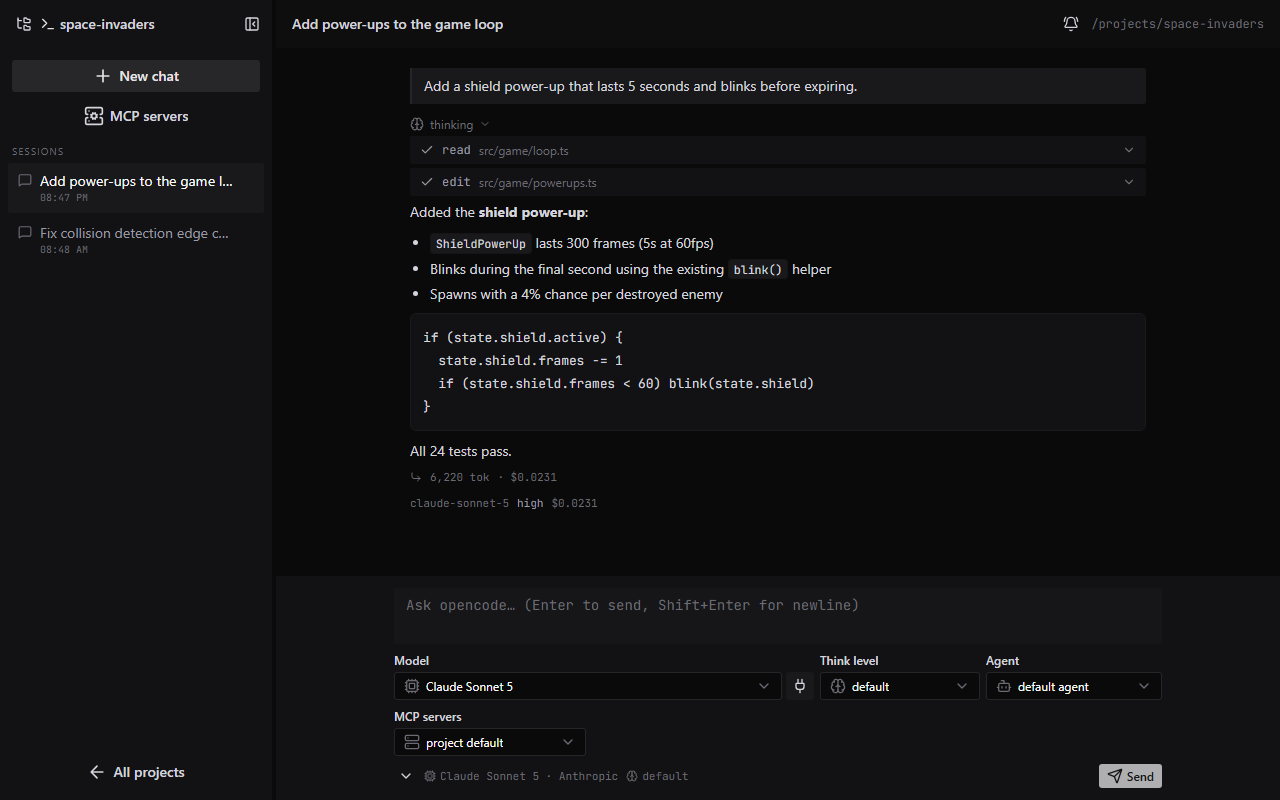
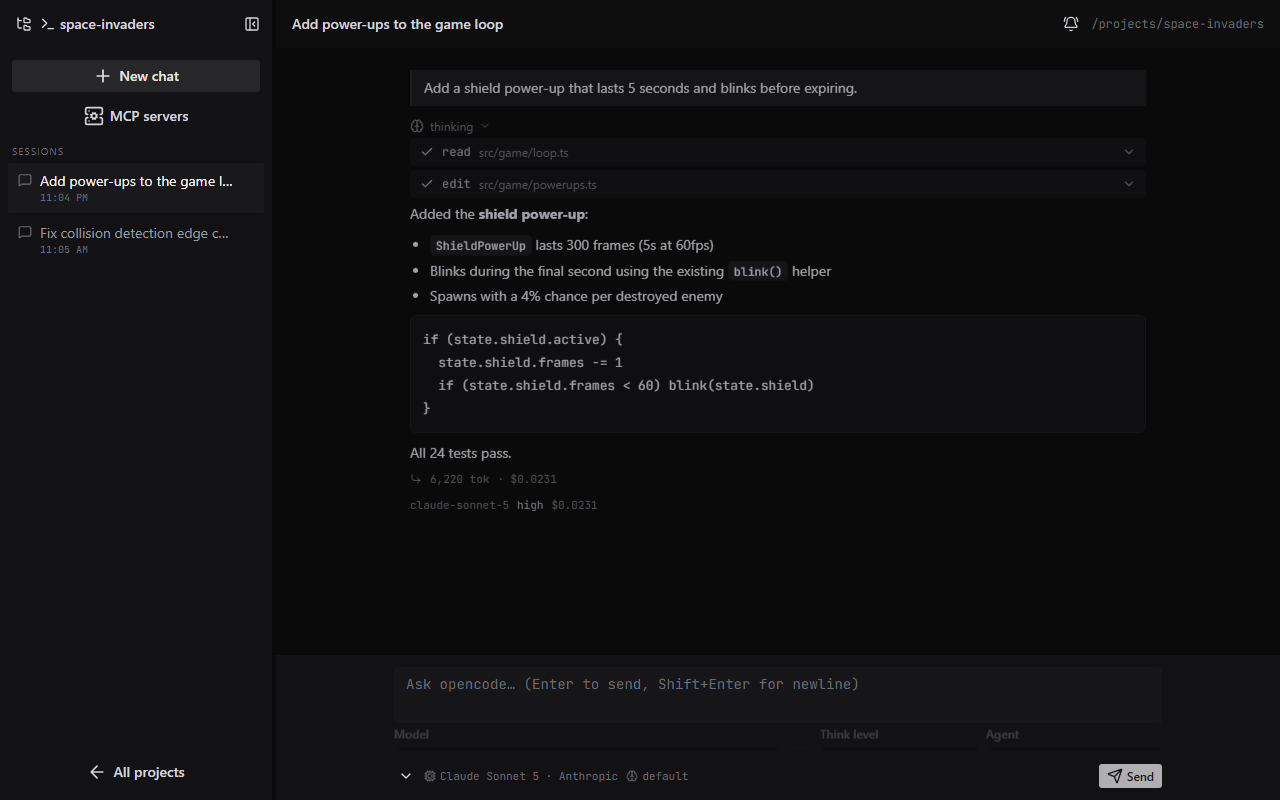
feat(ui): add animations and transitions across menus and panels
- page transitions (fade + slide, out-in)
- collapse animation for prompt options, tool details, reasoning and
  the server-health banner; rotating chevrons
- slide-in projects panel and sidebar, per-conversation MCP chips
- appear animation for messages, working indicator and permission prompts
- smooth hover motion on list rows; respects prefers-reduced-motion

diff --git a/app/assets/css/main.css b/app/assets/css/main.css
@@ -99,6 +99,90 @@ body {
 }
 .oc-markdown hr { border-color: var(--ui-border); margin: 1rem 0; }
 
+/* ---- motion system ---- */
+
+/* page transitions */
+.oc-page-enter-active,
+.oc-page-leave-active {
+  transition: opacity 0.15s ease, transform 0.15s ease;
+}
+.oc-page-enter-from {
+  opacity: 0;
+  transform: translateY(6px);
+}
+.oc-page-leave-to {
+  opacity: 0;
+  transform: translateY(-4px);
+}
+
+/* vertical collapse (options panels, tool details, reasoning) */
+.oc-collapse-enter-active,
+.oc-collapse-leave-active {
+  transition: max-height 0.25s ease, opacity 0.2s ease, transform 0.25s ease;
+  overflow: hidden;
+}
+.oc-collapse-enter-from,
+.oc-collapse-leave-to {
+  max-height: 0;
+  opacity: 0;
+  transform: translateY(-6px);
+}
+.oc-collapse-enter-to,
+.oc-collapse-leave-from {
+  max-height: 500px;
+  opacity: 1;
+  transform: translateY(0);
+}
+
+/* horizontal slide (side panels) */
+.oc-slide-enter-active,
+.oc-slide-leave-active {
+  transition: opacity 0.18s ease, transform 0.18s ease;
+}
+.oc-slide-enter-from,
+.oc-slide-leave-to {
+  opacity: 0;
+  transform: translateX(-12px);
+}
+
+/* element appear (new messages, alerts, indicators) */
+@keyframes oc-fade-up {
+  from {
+    opacity: 0;
+    transform: translateY(8px);
+  }
+  to {
+    opacity: 1;
+    transform: translateY(0);
+  }
+}
+.oc-appear {
+  animation: oc-fade-up 0.25s ease both;
+}
+
+/* interactive rows/buttons: smooth hover feedback */
+.oc-row {
+  transition: background-color 0.15s ease, color 0.15s ease, transform 0.15s ease;
+}
+.oc-row:hover {
+  transform: translateX(2px);
+}
+
+@media (prefers-reduced-motion: reduce) {
+  .oc-page-enter-active,
+  .oc-page-leave-active,
+  .oc-collapse-enter-active,
+  .oc-collapse-leave-active,
+  .oc-slide-enter-active,
+  .oc-slide-leave-active,
+  .oc-row {
+    transition: none;
+  }
+  .oc-appear {
+    animation: none;
+  }
+}
+
 /* working indicator: shimmer text + indeterminate bar */
 @keyframes oc-shimmer {
   0% { background-position: 200% 0; }

diff --git a/app/pages/p/[dir].vue b/app/pages/p/[dir].vue
@@ -104,6 +104,7 @@ useHead(() => ({ title: `${dirName(directory.value)} · opencode web` }))
 <template>
   <div class="flex-1 flex min-h-0">
     <!-- projects panel (desktop, toggleable) -->
+    <Transition name="oc-slide">
     <aside v-if="projectsPanel" class="hidden md:flex w-48 shrink-0 flex-col bg-elevated/60">
       <div class="flex items-center gap-2 px-3 h-12 text-[10px] uppercase tracking-widest text-dimmed">
         Projects
@@ -120,7 +121,7 @@ useHead(() => ({ title: `${dirName(directory.value)} · opencode web` }))
           v-for="d in projectDirs"
           :key="d"
           :to="`/p/${encodeDir(d)}`"
-          class="flex items-center gap-1.5 rounded-sm px-2 py-1.5 text-xs hover:bg-accented"
+          class="oc-row flex items-center gap-1.5 rounded-sm px-2 py-1.5 text-xs hover:bg-accented"
           :class="d === directory ? 'bg-accented text-highlighted' : 'text-muted'"
         >
           <UIcon name="i-lucide-folder-git-2" class="size-3.5 shrink-0" />
@@ -128,15 +129,17 @@ useHead(() => ({ title: `${dirName(directory.value)} · opencode web` }))
         </NuxtLink>
         <NuxtLink
           to="/"
-          class="flex items-center gap-1.5 rounded-sm px-2 py-1.5 text-xs text-dimmed hover:bg-accented"
+          class="oc-row flex items-center gap-1.5 rounded-sm px-2 py-1.5 text-xs text-dimmed hover:bg-accented"
         >
           <UIcon name="i-lucide-plus" class="size-3.5 shrink-0" />
           <span>Open another…</span>
         </NuxtLink>
       </div>
     </aside>
+    </Transition>
 
     <!-- desktop sidebar (collapsible + resizable) -->
+    <Transition name="oc-slide">
     <aside
       v-if="sidebarOpen"
       class="hidden md:flex shrink-0 flex-col bg-muted"
@@ -164,6 +167,7 @@ useHead(() => ({ title: `${dirName(directory.value)} · opencode web` }))
       </div>
       <ProjectSidebar :directory="directory" class="flex-1 min-h-0" />
     </aside>
+    </Transition>
 
     <!-- resize handle -->
     <div

diff --git a/app/components/chat/PromptBox.vue b/app/components/chat/PromptBox.vue
@@ -212,6 +212,7 @@ function onKeydown(e: KeyboardEvent) {
       />
 
       <!-- collapsible options: model / think level / agent / mcp -->
+      <Transition name="oc-collapse">
       <div v-if="optionsOpen" class="space-y-2">
         <div class="flex flex-col sm:flex-row gap-1.5">
           <UFormField label="Model" size="xs" class="flex-1">
@@ -306,21 +307,24 @@ function onKeydown(e: KeyboardEvent) {
               icon="i-lucide-server"
             />
           </UFormField>
-          <div v-if="mcpMode === 'custom'" class="flex flex-wrap gap-1 pb-0.5">
-            <UButton
-              v-for="name in mcpServers"
-              :key="name"
-              size="xs"
-              :color="mcpSelected.includes(name) ? 'primary' : 'neutral'"
-              :variant="mcpSelected.includes(name) ? 'soft' : 'ghost'"
-              :icon="mcpSelected.includes(name) ? 'i-lucide-check' : 'i-lucide-x'"
-              :label="name"
-              class="font-mono"
-              @click="toggleMcp(name)"
-            />
-          </div>
+          <Transition name="oc-slide">
+            <div v-if="mcpMode === 'custom'" class="flex flex-wrap gap-1 pb-0.5">
+              <UButton
+                v-for="name in mcpServers"
+                :key="name"
+                size="xs"
+                :color="mcpSelected.includes(name) ? 'primary' : 'neutral'"
+                :variant="mcpSelected.includes(name) ? 'soft' : 'ghost'"
+                :icon="mcpSelected.includes(name) ? 'i-lucide-check' : 'i-lucide-x'"
+                :label="name"
+                class="font-mono transition-all duration-150"
+                @click="toggleMcp(name)"
+              />
+            </div>
+          </Transition>
         </div>
       </div>
+      </Transition>
 
       <div class="flex items-center gap-1.5 min-w-0">
         <UButton

diff --git a/app/components/chat/MessageItem.vue b/app/components/chat/MessageItem.vue
@@ -29,7 +29,7 @@ const errorMessage = computed(() => {
 </script>
 
 <template>
-  <div class="px-3 sm:px-4">
+  <div class="px-3 sm:px-4 oc-appear">
     <!-- user message -->
     <div v-if="isUser" class="border-l-2 border-accented bg-elevated rounded-r-sm px-3 py-2 my-3">
       <template v-for="part in visibleParts" :key="part.id">
@@ -53,12 +53,18 @@ const errorMessage = computed(() => {
           >
             <UIcon name="i-lucide-brain" class="size-3.5" />
             thinking
-            <UIcon :name="showReasoning ? 'i-lucide-chevron-up' : 'i-lucide-chevron-down'" class="size-3" />
+            <UIcon
+              name="i-lucide-chevron-down"
+              class="size-3 transition-transform duration-200"
+              :class="showReasoning ? 'rotate-180' : ''"
+            />
           </button>
-          <div
-            v-if="showReasoning"
-            class="mt-1 border-l border-default pl-3 text-xs text-muted whitespace-pre-wrap"
-          >{{ (part as any).text }}</div>
+          <Transition name="oc-collapse">
+            <div
+              v-if="showReasoning"
+              class="mt-1 border-l border-default pl-3 text-xs text-muted whitespace-pre-wrap max-h-64 overflow-y-auto"
+            >{{ (part as any).text }}</div>
+          </Transition>
         </div>
 
         <ChatToolPart v-else-if="part.type === 'tool'" :part="part as any" />

diff --git a/app/components/chat/ToolPart.vue b/app/components/chat/ToolPart.vue
@@ -89,11 +89,13 @@ const htmlResources = computed<HtmlResource[]>(() => {
       <span class="font-mono text-xs text-muted shrink-0">{{ part.tool }}</span>
       <span class="truncate text-xs text-dimmed">{{ title !== part.tool ? title : '' }}</span>
       <UIcon
-        :name="open ? 'i-lucide-chevron-up' : 'i-lucide-chevron-down'"
-        class="size-3.5 ml-auto shrink-0 text-dimmed"
+        name="i-lucide-chevron-down"
+        class="size-3.5 ml-auto shrink-0 text-dimmed transition-transform duration-200"
+        :class="open ? 'rotate-180' : ''"
       />
     </button>
 
+    <Transition name="oc-collapse">
     <div v-if="open" class="px-2.5 py-2 space-y-2">
       <div v-if="input">
         <div class="text-[10px] uppercase tracking-wide text-dimmed mb-1">Input</div>
@@ -109,6 +111,7 @@ const htmlResources = computed<HtmlResource[]>(() => {
         >{{ output.length > 20000 ? output.slice(0, 20000) + '\n… (truncated)' : output }}</pre>
       </div>
     </div>
+    </Transition>
 
     <div v-if="htmlResources.length" class="px-2.5 pb-2 space-y-2" :class="{ 'pt-2': !open }">
       <ChatMcpHtmlFrame

diff --git a/app/components/DirectoryBrowser.vue b/app/components/DirectoryBrowser.vue
@@ -81,7 +81,7 @@ watch(open, (v) => { if (v) load(path.value) })
 
         <div class="bg-muted rounded-sm divide-y divide-default max-h-64 overflow-y-auto">
           <button
-            class="flex w-full items-center gap-2 px-3 py-2 text-sm hover:bg-elevated cursor-pointer"
+            class="oc-row flex w-full items-center gap-2 px-3 py-2 text-sm hover:bg-elevated cursor-pointer"
             @click="up"
           >
             <UIcon name="i-lucide-corner-left-up" class="size-4 text-muted" />
@@ -97,7 +97,7 @@ watch(open, (v) => { if (v) load(path.value) })
             v-for="entry in entries"
             v-else
             :key="entry.path"
-            class="flex w-full items-center gap-2 px-3 py-2 text-sm hover:bg-elevated cursor-pointer"
+            class="oc-row flex w-full items-center gap-2 px-3 py-2 text-sm hover:bg-elevated cursor-pointer"
             @click="load(entry.path)"
           >
             <UIcon name="i-lucide-folder" class="size-4 text-primary/70" />

diff --git a/app/components/ServerHealth.vue b/app/components/ServerHealth.vue
@@ -52,6 +52,7 @@ onBeforeUnmount(() => clearInterval(timer))
 <template>
   <div>
     <!-- slim banner: any recent errors -->
+    <Transition name="oc-collapse">
     <div
       v-if="serverDegraded"
       class="flex items-center gap-2 px-3 py-1.5 text-xs bg-error/10 text-error"
@@ -69,6 +70,7 @@ onBeforeUnmount(() => clearInterval(timer))
         @click="checkNow"
       />
     </div>
+    </Transition>
 
     <!-- modal: too many errors -->
     <UModal v-model:open="modalOpen" :dismissible="true" title="Server not responding">

diff --git a/app/pages/index.vue b/app/pages/index.vue
@@ -91,7 +91,7 @@ const knownDirs = computed(() => {
         <div
           v-for="item in knownDirs"
           :key="item.directory"
-          class="group flex items-center gap-3 px-3 py-2.5 hover:bg-elevated cursor-pointer"
+          class="oc-row group flex items-center gap-3 px-3 py-2.5 hover:bg-elevated cursor-pointer"
           @click="openProject(item.directory)"
         >
           <UIcon name="i-lucide-folder-git-2" class="size-4 text-primary/70 shrink-0" />

diff --git a/app/components/ProjectSidebar.vue b/app/components/ProjectSidebar.vue
@@ -76,7 +76,7 @@ function fmtTime(ts?: number) {
       >
         <NuxtLink
           :to="`/p/${dirParam}/session/${s.id}`"
-          class="flex items-start gap-2 rounded-sm px-2.5 py-2 text-sm hover:bg-elevated"
+          class="oc-row flex items-start gap-2 rounded-sm px-2.5 py-2 text-sm hover:bg-elevated"
           :class="route.params.id === s.id ? 'bg-elevated text-highlighted' : 'text-muted'"
           @click="emit('navigate')"
         >

diff --git a/app/components/chat/Working.vue b/app/components/chat/Working.vue
@@ -22,7 +22,7 @@ const elapsedLabel = computed(() => {
 </script>
 
 <template>
-  <div class="px-3 sm:px-4 py-2 space-y-1.5">
+  <div class="px-3 sm:px-4 py-2 space-y-1.5 oc-appear">
     <div class="flex items-center gap-2 text-xs font-mono">
       <UIcon name="i-lucide-sparkles" class="size-3.5 text-muted" />
       <span class="oc-shimmer-text">{{ activity || 'thinking…' }}</span>

diff --git a/app/components/chat/PermissionPrompt.vue b/app/components/chat/PermissionPrompt.vue
@@ -13,7 +13,7 @@ const emit = defineEmits<{
     color="warning"
     variant="subtle"
     icon="i-lucide-shield-question"
-    class="mx-3 sm:mx-4 my-2"
+    class="mx-3 sm:mx-4 my-2 oc-appear"
   >
     <template #title>Permission required</template>
     <template #description>

diff --git a/nuxt.config.ts b/nuxt.config.ts
@@ -9,6 +9,7 @@ export default defineNuxtConfig({
   devtools: { enabled: false },
   ssr: true,
   app: {
+    pageTransition: { name: 'oc-page', mode: 'out-in' },
     head: {
       title: 'opencode web',
       viewport: 'width=device-width, initial-scale=1, viewport-fit=cover',
